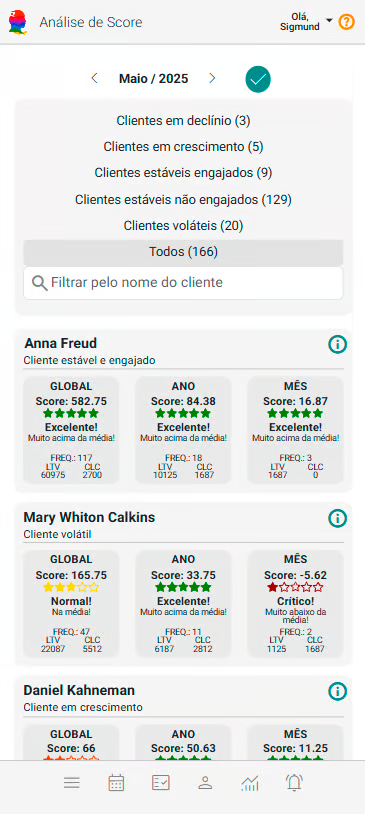
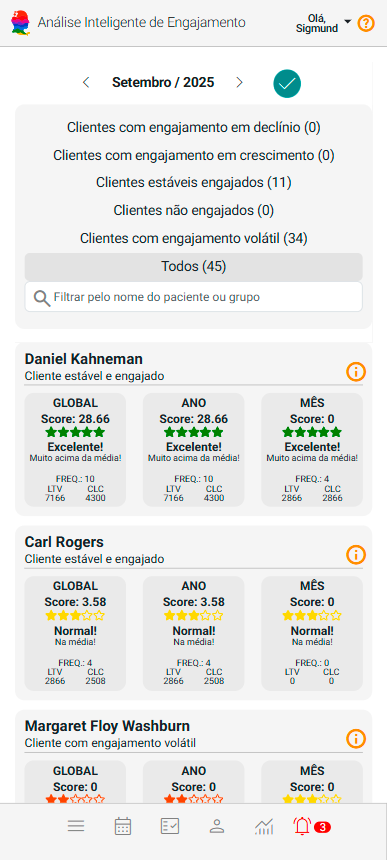
nilson

diff --git a/src/components/ImageSlider/imageSlider.jsx b/src/components/ImageSlider/imageSlider.jsx
@@ -14,7 +14,7 @@ function ImageSlider() {
         { index: 4, src: "/img/prints/slider/004.png", alt: "Alertas", src_small: "/img/prints/slider/small/004.png" },
         { index: 5, src: "/img/prints/slider/005.png", alt: "Consolidação Financeira", src_small: "/img/prints/slider/small/005.png" },
         { index: 6, src: "/img/prints/slider/006.png", alt: "Cadastro de Pacientes e Grupos", src_small: "/img/prints/slider/small/006.png" },
-        { index: 7, src: "/img/prints/slider/007.png", alt: "Análise de Score", src_small: "/img/prints/slider/small/007.png" },
+        { index: 7, src: "/img/prints/slider/007.png", alt: "Análise Inteligente de Engajamento", src_small: "/img/prints/slider/small/007.png" },
     ];
 
     const scrollInterval = useRef(null);

diff --git a/src/components/HomepageFeatures/index.js b/src/components/HomepageFeatures/index.js
@@ -127,7 +127,7 @@ const FeatureList = [
   },
   {
     link: '/docs/funcionalidades/analise-score/visao',
-    title: 'Análise de score dos pacientes',
+    title: 'Análise Inteligente de Engajamento dos pacientes',
     icon: <TbDashboard />,
     description: (
       <>Visualize o comportamento dos pacientes com base em dados históricos e monitore o nível de engajamento para orientar ações mais assertivas e personalizadas.</>

diff --git a/docs/08_funcionalidades/15-analise-score/00-visao.md b/docs/08_funcionalidades/15-analise-score/00-visao.md
@@ -2,29 +2,29 @@
 sidebar_position: 0
 ---
 
-# Sobre Análise de Score
+# Sobre Análise Inteligente de Engajamento
 
-O painel **Análise de Score** exibe a pontuação e o comportamento dos pacientes com base em dados históricos de relacionamento. As informações são organizadas por período e segmentadas em categorias para facilitar a tomada de decisões estratégicas.
+O painel **Análise Inteligente de Engajamento** exibe a pontuação e o comportamento dos pacientes com base em dados históricos de relacionamento. As informações são organizadas por período e segmentadas em categorias para facilitar a tomada de decisões estratégicas.
 
 A ferramenta avalia o desempenho dos pacientes com base em três dimensões principais: **Global, Ano e Mês**. Cada dimensão fornece uma visão específica da relação do paciente com o seu negócio, considerando histórico, comportamento recente e engajamento atual.
 
 Essas informações são acompanhadas por indicadores que facilitam a análise do **valor gerado**, da **frequência de interações** e do **custo de manutenção de cada paciente**.
 
-![Análise de Score](../../../static/img/prints/analisescore/001.png)
+![Análise Inteligente de Engajamento](../../../static/img/prints/analisescore/001.png)
 
 ## Seletor de Período
 
-![Análise de Score](../../../static/img/prints/analisescore/002.png)
+![Análise Inteligente de Engajamento](../../../static/img/prints/analisescore/002.png)
 
 - Exibe o mês atual da análise.
-- Setas permitem navegar para meses anteriores ![Análise de Score](../../../static/img/prints/buttons/btn_after.png) ou futuros ![Análise de Score](../../../static/img/prints/buttons/btn_before.png).
+- Setas permitem navegar para meses anteriores ![Análise Inteligente de Engajamento](../../../static/img/prints/buttons/btn_after.png) ou futuros ![Análise Inteligente de Engajamento](../../../static/img/prints/buttons/btn_before.png).
 - Botão de check  aplica o mês selecionado.
 
 ## Filtros por tipo de Classificação ou Nome do Paciente
 
 Esta seção permite ao usuário **filtrar a exibição de pacientes** com base em sua **classificação comportamental** ou localizar um paciente específico pelo **nome**.
 
-![Análise de Score](../../../static/img/prints/analisescore/003.png)
+![Análise Inteligente de Engajamento](../../../static/img/prints/analisescore/003.png)
 
 Os números entre parênteses indicam a **quantidades de pacientes** em cada classificação.
 
@@ -42,7 +42,7 @@ Você pode ainda filtrar por nome de paciente, para isso basta preencher o campo
 
 ## *Card* de Score
 
-![Análise de Score](../../../static/img/prints/analisescore/004.png)
+![Análise Inteligente de Engajamento](../../../static/img/prints/analisescore/004.png)
 
 O *card* de score é composto pelos seguintes elementos:
 
@@ -54,7 +54,7 @@ O *card* de score é composto pelos seguintes elementos:
 
 O Score do Paciente é apresentado por meio de três seções principais, que representam diferentes recortes de tempo:
 
-![Análise de Score](../../../static/img/prints/analisescore/005.png)
+![Análise Inteligente de Engajamento](../../../static/img/prints/analisescore/005.png)
 
 - **GLOBAL**: Considera todo o histórico do paciente desde o início do relacionamento com a sua organização.
 - **ANO**: Refere-se aos dados acumulados no ano corrente.
@@ -77,7 +77,7 @@ Cada uma dessas seções exibe um conjunto de indicadores que refletem o desempe
 - **CLC (Customer Lifetime Cost)**: custo total no período relacionado à manutenção do paciente.
 
 :::tip
-    Ao clicar sobre o botão ![Análise de Score](../../../static/img/prints/buttons/btn_info.png), o sistema abre a tela "Gráficos e Indicadores", cujo conteúdo é similar ao apresentado na tela de [Cadastro de paciente / Aba Resultados](/docs/funcionalidades/clientes-grupos/cadastro/aba-resultados).
+    Ao clicar sobre o botão ![Análise Inteligente de Engajamento](../../../static/img/prints/buttons/btn_info.png), o sistema abre a tela "Gráficos e Indicadores", cujo conteúdo é similar ao apresentado na tela de [Cadastro de paciente / Aba Resultados](/docs/funcionalidades/clientes-grupos/cadastro/aba-resultados).
 
-    ![Análise de Score](../../../static/img/prints/analisescore/006.png)
+    ![Análise Inteligente de Engajamento](../../../static/img/prints/analisescore/006.png)
 :::

diff --git a/docs/06_iniciando/02_interface-navegacao/04_menu-principal.md b/docs/06_iniciando/02_interface-navegacao/04_menu-principal.md
@@ -28,7 +28,7 @@ O Menu Principal pode ser acessado através do botão ![Botão Tarefas](../../..
 | **Inadimplências** | Abre o [Painel Inadimplências](/docs/funcionalidades/inadimplencias/visao) - centraliza e detalha inadimplências, ajudando a identificar riscos, planejar cobranças e melhorar o desempenho financeiro da organização.|
 | **Perdas (baixas contábeis)** | Abre o [Painel Perdas (Baixas Contábeis)](/docs/funcionalidades/perdas-baixas-contabeis/visao) - registra e acompanha perdas por inadimplência de difícil recuperação, melhorando a gestão financeira e a projeção realista de receitas.|
 | **Perdas recuperadas** | Abre o [Painel Perdas Recuperadas](/docs/funcionalidades/perdas-recuperadas/visao) - monitora valores recuperados após baixa contábil, apoiando a gestão da inadimplência, a revisão de estratégias e a transparência financeira.|
-| **Análise de score** | Abre o [Painel Análise de Score](/docs/funcionalidades/analise-score/visao) - exibe o score dos pacientes com base no histórico e comportamento, facilitando decisões estratégicas com análises por mês, ano e global.|
+| **Análise Inteligente de Engajamento** | Abre o [Painel Análise Inteligente de Engajamento](/docs/funcionalidades/analise-score/visao) - exibe o score dos pacientes com base no histórico e comportamento, facilitando decisões estratégicas com análises por mês, ano e global.|
 | **Campanhas de cashback** | Abre o [Painel Campanhas de Cashback](/docs/funcionalidades/campanha-cashback/visao) - permite criar campanhas de cashback para engajar pacientes, recompensar fidelidade e aumentar a continuidade e volume dos atendimentos.|
 | **Recibos** | Abre o [Painel Recibos](/docs/funcionalidades/recibos/visao) - exibe todos os recibos emitidos, ativos ou cancelados, em *cards* organizados, facilitando o controle e a visualização das informações.|
 | **Notas Fiscais** | Abre o [Painel Notas Fiscais](#) - exibe todos os informes ou emissão de Notas Fiscais em *cards* organizados, facilitando o controle e a visualização das informações.|

diff --git a/docs/02_diferenciais/02_score-inteligente.md b/docs/02_diferenciais/02_score-inteligente.md
@@ -44,7 +44,7 @@ Essas informações possibilitam ações estratégicas, como:
 
 ## Visualização no Painel de Resultados
 
-Na seção **“Análise de Score”**, gráficos e indicadores apresentam de forma clara:
+Na seção **“Análise Inteligente de Engajamento”**, gráficos e indicadores apresentam de forma clara:
 
 - Padrões de comportamento.  
 - Tendências relevantes para o consultório.  
@@ -54,7 +54,7 @@ Na seção **“Análise de Score”**, gráficos e indicadores apresentam de fo
 
 ## Valor Clínico e Administrativo
 
-A Análise de Score contribui diretamente para:
+A Análise Inteligente de Engajamento contribui diretamente para:
 
 - Controle otimizado da **frequência de pacientes**.  
 - Apoio em **ações de fidelização e continuidade de tratamento**.  
@@ -64,7 +64,7 @@ A Análise de Score contribui diretamente para:
 
 ## Combinando com Outros Recursos do eConsult
 
-Combinada a módulos como **agenda, prontuário e gestão financeira**, a Análise de Score transforma o eConsult em um verdadeiro **hub estratégico**, unindo:
+Combinada a módulos como **agenda, prontuário e gestão financeira**, a Análise Inteligente de Engajamento transforma o eConsult em um verdadeiro **hub estratégico**, unindo:
 
 - Gestão clínica.  
 - Organização administrativa.  
@@ -72,7 +72,7 @@ Combinada a módulos como **agenda, prontuário e gestão financeira**, a Análi
 
 ---
 
-## Por que a funcionlidade de Análise de Score do eConsult é única no mercado?
+## Por que a funcionlidade de Análise Inteligente de Engajamento do eConsult é única no mercado?
 
 1. **Gestão de Engajamento Clínico**
 - Diferente da maioria dos sistemas, não se limita a agendamento ou prontuário.  

diff --git a/docs/06_iniciando/02_interface-navegacao/02_painel-inicial.md b/docs/06_iniciando/02_interface-navegacao/02_painel-inicial.md
@@ -39,7 +39,7 @@ Além dos alertas e informações, o Painel Inicial oferece ainda atalhos rápid
 |![Tela: Painel Inicial](../../../static/img/prints/02_painel-inicial-013.png) | Abre o [Painel Inadimplências](/docs/funcionalidades/inadimplencias/visao) |
 |![Tela: Painel Inicial](../../../static/img/prints/02_painel-inicial-014.png) | Abre o [Painel Perdas (baixas contábeis)](/docs/funcionalidades/perdas-baixas-contabeis/visao) |
 |![Tela: Painel Inicial](../../../static/img/prints/02_painel-inicial-015.png) | Abre o [Painel Perdas Recuperadas](/docs/funcionalidades/perdas-recuperadas/visao) |
-|![Tela: Painel Inicial](../../../static/img/prints/02_painel-inicial-021.png) | Abre o [Painel Análise de Score](/docs/funcionalidades/analise-score/visao) |
+|![Tela: Painel Inicial](../../../static/img/prints/02_painel-inicial-021.png) | Abre o [Painel Análise Inteligente de Engajamento](/docs/funcionalidades/analise-score/visao) |
 |![Tela: Painel Inicial](../../../static/img/prints/02_painel-inicial-023.png) | Abre o [Painel Campanhas de Cashback](#) |
 |![Tela: Painel Inicial](../../../static/img/prints/02_painel-inicial-016.png) | Abre o [Painel Recibos](/docs/funcionalidades/recibos/visao) |
 |![Tela: Painel Inicial](../../../static/img/prints/02_painel-inicial-022.png) | Abre o [Painel Notas Fiscais](#) |

diff --git a/docs/02_diferenciais/03_modelos-anamnese.md b/docs/02_diferenciais/03_modelos-anamnese.md
@@ -47,7 +47,7 @@ Isso garante que **toda a trajetória clínica** esteja organizada em um único 
 
 ## Sinergia com Outros Recursos
 
-Em conjunto com **análises psicológicas, IA para anotações em atendimentos e análise de score**, o modelo de anamnese fecha o ciclo para prontuários: da coleta inicial à avaliação, registro, acompanhamento e gestão estratégica em um único ambiente integrado.
+Em conjunto com **análises psicológicas, IA para anotações em atendimentos e Análise Inteligente de Engajamento**, o modelo de anamnese fecha o ciclo para prontuários: da coleta inicial à avaliação, registro, acompanhamento e gestão estratégica em um único ambiente integrado.
 
 ---
 

diff --git a/docs/08_funcionalidades/04-atendimentos/11-recebimentos.md b/docs/08_funcionalidades/04-atendimentos/11-recebimentos.md
@@ -1,5 +1,5 @@
 ---
-sidebar_position: 5
+sidebar_position: 11
 ---
 
 # Recebimentos de Valores dos Atendimentos

diff --git a/docs/08_funcionalidades/04-atendimentos/12-teleatendimento.md b/docs/08_funcionalidades/04-atendimentos/12-teleatendimento.md
@@ -1,5 +1,5 @@
 ---
-sidebar_position: 11
+sidebar_position: 12
 ---
 
 # Teleatendimento

diff --git a/docs/08_funcionalidades/04-atendimentos/05-analises-psicologicas.md b/docs/08_funcionalidades/04-atendimentos/05-analises-psicologicas.md
@@ -1,0 +1,5 @@
+---
+sidebar_position: 5
+---
+
+# Análises Psicológicas
